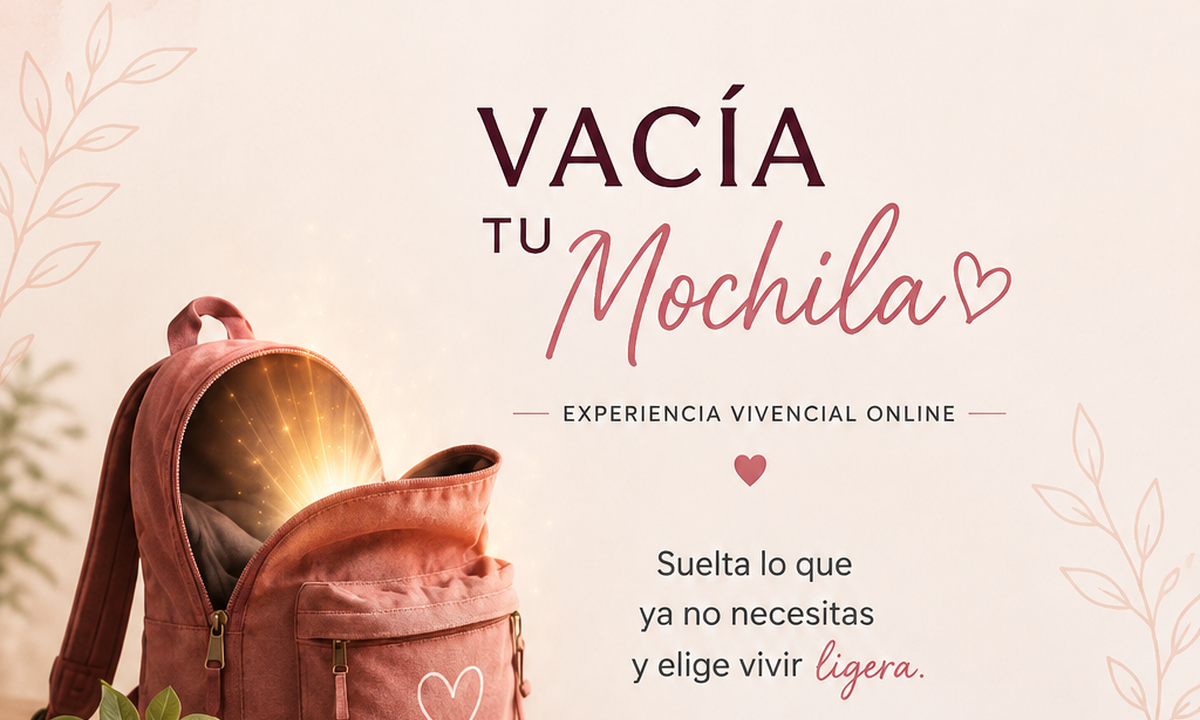
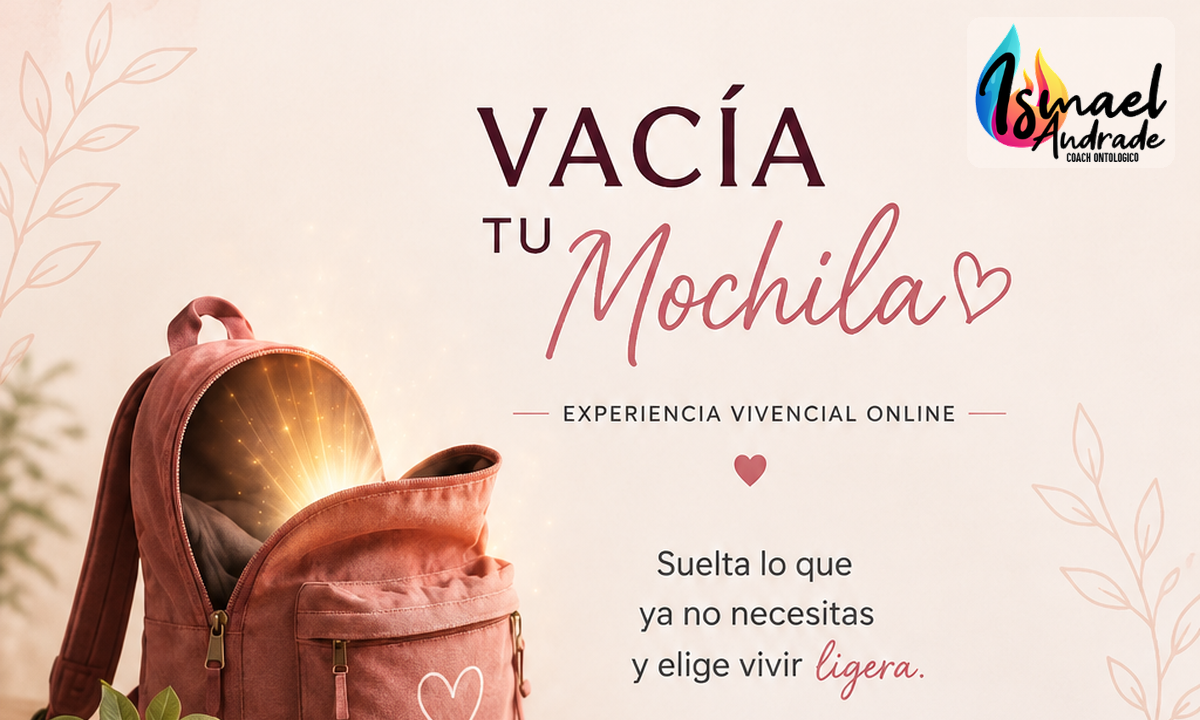
v1.7 - Corrige actualización de PWA e integra marca Ismael Andrade

Changed region(s): [[0.8017, 0.0306, 0.9867, 0.2444]]

diff --git a/index.html b/index.html
@@ -6,13 +6,13 @@
   <meta property="og:description" content="Experiencia guiada de reflexión y autoconocimiento con Ismael Andrade.">
   <meta property="og:type" content="website">
   <meta property="og:url" content="https://xentroplus.github.io/vmo/">
-  <meta property="og:image" content="https://xentroplus.github.io/vmo/social-preview-v1.2.jpg">
+  <meta property="og:image" content="https://xentroplus.github.io/vmo/social-preview-v1.7.jpg">
   <meta property="og:image:width" content="1200">
   <meta property="og:image:height" content="630">
   <meta name="twitter:card" content="summary_large_image">
   <meta name="twitter:title" content="Vacía tu Mochila | Mi Mochila Hoy">
   <meta name="twitter:description" content="Experiencia guiada de reflexión y autoconocimiento con Ismael Andrade.">
-  <meta name="twitter:image" content="https://xentroplus.github.io/vmo/social-preview-v1.2.jpg">
+  <meta name="twitter:image" content="https://xentroplus.github.io/vmo/social-preview-v1.7.jpg">
 
 <title>Vacía tu Mochila</title><link rel="manifest" href="manifest.webmanifest"><link rel="icon" href="icon-192.png">
 <style>
@@ -31,7 +31,7 @@
     .hero img{width:min(250px,74%);border-radius:22px;margin:0 auto 14px;display:block}h1{font-size:34px;line-height:1.05;margin:6px 0 8px}h2{font-size:27px;line-height:1.12;margin:0 0 14px}h3{font-size:18px;margin:0 0 8px}p{line-height:1.5}.lead{font-size:18px;color:var(--muted)}.privacy{background:#f0ebe7;border:1px dashed #cebcc4;border-radius:18px;padding:16px}.progress{height:8px;background:#eadde3;border-radius:999px;overflow:hidden;margin:10px 0 20px}.progress span{display:block;height:100%;background:linear-gradient(90deg,var(--accent),var(--accent2));width:0}.stepnote{font-size:13px;color:var(--muted);margin-bottom:5px}.btnrow{display:flex;gap:10px;flex-wrap:wrap;margin-top:22px}button{font:inherit;border:0;border-radius:14px;padding:13px 18px;min-height:46px;cursor:pointer}.primary{background:var(--accent);color:#fff;font-weight:700;flex:1}.secondary{background:var(--soft);color:var(--text);font-weight:650}.ghost{background:transparent;border:1px solid var(--line);color:var(--text)}button:disabled{opacity:.45;cursor:not-allowed}.field{margin:16px 0}label{display:block;font-weight:700;margin-bottom:8px}input[type=password],input[type=text],textarea{width:100%;border:1px solid #d8c8cf;border-radius:14px;padding:14px 15px;font:inherit;background:#fff;color:var(--text)}textarea{min-height:120px;resize:vertical}.areas{display:grid;gap:14px}.area{border:1px solid var(--line);background:#fff;border-radius:18px;padding:16px}.area-head{display:flex;justify-content:space-between;gap:12px;align-items:flex-start}.area small{display:block;color:var(--muted);margin-top:4px;line-height:1.4}.scale{display:grid;grid-template-columns:repeat(5,1fr);gap:8px;margin-top:14px}.scale button{padding:10px 0;border:1px solid var(--line);background:#fff;border-radius:12px}.scale button.sel{background:var(--accent);color:#fff;border-color:var(--accent)}.legend{display:flex;justify-content:space-between;font-size:12px;color:var(--muted);margin-top:12px;gap:12px}.choicegrid{display:grid;gap:10px}.choice{width:100%;text-align:left;background:#fff;border:1px solid var(--line);padding:14px 16px;border-radius:14px}.choice.sel{border-color:var(--accent);background:#f5eaf0}.selected-summary{border-left:4px solid var(--accent);background:#f8eef3;padding:12px 14px;border-radius:12px;margin:14px 0}.pause{background:linear-gradient(180deg,#f4ecef,#fffaf7);text-align:center;padding:30px 18px;border-radius:20px;border:1px solid var(--line)}.pause .big{font-size:48px}.radarwrap{display:flex;justify-content:center;margin:8px 0 18px}svg.radar{width:min(100%,520px);height:auto}.summary{display:grid;gap:12px}.summary-item{background:#fff;border:1px solid var(--line);border-radius:16px;padding:14px}.summary-item b{display:block;margin-bottom:5px}.notice{font-size:14px;padding:12px 14px;border-radius:12px;background:#fff5dd;border:1px solid #edd7a1}.error{color:#a33b4a;font-size:14px;margin-top:8px}.hidden{display:none!important}@media(max-width:520px){.card{padding:18px;border-radius:20px}h1{font-size:30px}h2{font-size:24px}.app{padding:12px 10px 30px}.btnrow{flex-direction:column-reverse}.btnrow button{width:100%}}@media print{body{background:#fff}.top,.progress,.btnrow,.no-print,.stepnote{display:none!important}.app{max-width:100%;padding:0}.card{box-shadow:none;border:none}.print-title{display:block!important}}
 </style>
 </head>
-<body><div class="app"><div class="top"><div class="brandmini"><img src="brand.png?v=1.6" alt="Vacía tu Mochila"><div><strong>Vacía tu Mochila</strong><div class="version">PWA v1.6</div></div></div><div class="version" id="statusMini">Guardado local</div></div><div class="stepnote" id="stepLabel"></div><div class="progress" id="progressWrap"><span id="progressBar"></span></div><main class="card" id="screen"></main></div>
+<body><div class="app"><div class="top"><div class="brandmini"><img src="brand.png?v=1.7" alt="Vacía tu Mochila"><div><strong>Vacía tu Mochila</strong><div class="version">PWA v1.7</div></div></div><div class="version" id="statusMini">Guardado local</div></div><div class="stepnote" id="stepLabel"></div><div class="progress" id="progressWrap"><span id="progressBar"></span></div><main class="card" id="screen"></main></div>
 <script>
 (()=>{
 const APP_KEY='vmo-state-v1',ACCESS_KEY='vmo-access-v1',PASS='vmo1';
@@ -53,7 +53,7 @@ function displayArea(){return state.area==='➕ Otra área'?(state.areaOther.tri
 function displayLoad(){return state.load==='➕ Otra'?(state.loadOther.trim()||'Otra'):state.load}
 function render(){progressUI();({login:renderLogin,cover:renderCover,privacy:renderPrivacy,areas:renderAreas,map:renderMap,chooseArea:renderChooseArea,chooseLoad:renderChooseLoad,q1:()=>renderTextQuestion('💭 ¿En qué situación sientes con mayor frecuencia esta carga?','q1','chooseLoad','q2'),q2:()=>renderTextQuestion('💭 Cuando esto ocurre, ¿qué sueles decirte a ti misma?','q2','q1','pause','Ej.: “Tengo que hacerlo”, “No puedo fallar”, “Qué van a pensar de mí”…'),pause:renderPause,discover:()=>renderTextQuestion('✨ ¿Qué descubriste o comprendiste sobre aquello que estabas cargando?','discover','pause','different'),different:()=>renderTextQuestion('🌱 ¿Qué te gustaría comenzar a hacer diferente?','different','discover','release'),release:()=>renderTextQuestion('🎒 ¿Qué quieres dejar de cargar de la misma manera?','release','different','action'),action:renderAction,summary:renderSummary}[state.step]||renderCover)()}
 function renderLogin(){screen.innerHTML=`<div class="hero">
-      <img src="brand.png?v=1.6" alt="Vacía tu Mochila">
+      <img src="brand.png?v=1.7" alt="Vacía tu Mochila">
       <h2>🔐 Acceso a la experiencia</h2>
       <p class="muted">Ingresa la clave compartida por Ismael.</p>
       <div class="field"><input id="pass" type="password" autocomplete="off" placeholder="Clave de acceso"></div>
@@ -61,7 +61,7 @@ function renderLogin(){screen.innerHTML=`<div class="hero">
       <div class="btnrow"><button id="loginBtn" class="primary">INGRESAR</button></div>
       </div></div>`;const go=()=>{if(document.getElementById('pass').value.trim()===PASS){localStorage.setItem(ACCESS_KEY,'1');state.step='cover';save();render()}else document.getElementById('err').textContent='⚠ La clave ingresada no es correcta. Inténtalo nuevamente.'};document.getElementById('loginBtn').addEventListener('click',go);document.getElementById('pass').addEventListener('keydown',e=>{if(e.key==='Enter')go()})}
 function renderCover(){screen.innerHTML=`<div class="hero">
-      <img src="brand.png?v=1.6" alt="Vacía tu Mochila">
+      <img src="brand.png?v=1.7" alt="Vacía tu Mochila">
       <h1>🎒 VACÍA TU MOCHILA</h1>
       <h3>Mi Mochila Hoy</h3>
       <p class="lead">Una herramienta personal para detenerte, mirar lo que estás cargando y elegir dónde quieres comenzar.</p>
@@ -78,6 +78,6 @@ function renderTextQuestion(q,key,back,next,hint=''){screen.innerHTML=`<h2>${q}<
 function renderPause(){screen.innerHTML=`<div class="pause"><div class="big">🧘</div><h2>Ahora deja tu teléfono a un lado</h2><p>Has identificado algo que quieres mirar.</p><p>🎧 Ahora déjate acompañar por mi voz.</p><p class="muted">No necesitas hacer nada más en la aplicación hasta que te indique que volvamos.</p><p><b>Deja tu teléfono a un lado y ponte cómoda. 💛</b></p></div>${nav('q2','discover','YA ESTOY DE VUELTA →')}`;bindNav('q2','discover')}
 function renderAction(){screen.innerHTML=`<h2>👣 Mi primer paso</h2><p>No necesitas cambiarlo todo hoy.</p><p><b>¿Qué pequeña acción puedes realizar en las próximas 48 horas que dependa únicamente de ti?</b></p><div class="field"><textarea id="answer" placeholder="Opcional">${esc(state.action)}</textarea></div><div id="promptBox" class="notice hidden">💛 ¿Quieres regalarte unos segundos más para pensar en una pequeña acción?<div class="btnrow"><button id="writeBtn" class="secondary">QUIERO ESCRIBIRLA</button><button id="continueBtn" class="primary">PREFIERO CONTINUAR</button></div></div><div class="btnrow"><button id="backBtn" class="secondary">← ANTERIOR</button><button id="finishBtn" class="primary">FINALIZAR ✨</button></div>`;document.getElementById('answer').addEventListener('input',e=>{state.action=e.target.value;save()});document.getElementById('backBtn').addEventListener('click',()=>setStep('release'));document.getElementById('finishBtn').addEventListener('click',()=>{if(state.action.trim())setStep('summary');else document.getElementById('promptBox').classList.remove('hidden')});document.getElementById('writeBtn').addEventListener('click',()=>{document.getElementById('promptBox').classList.add('hidden');document.getElementById('answer').focus()});document.getElementById('continueBtn').addEventListener('click',()=>setStep('summary'))}
 function renderSummary(){const items=[['Hoy elegí mirar',displayArea()],['Reconocí que estaba cargando',displayLoad()],['Descubrí',state.discover],['Quiero comenzar a soltar',state.release],['🌱 Mi primer paso será',state.action]].filter(x=>x[1]&&String(x[1]).trim());screen.innerHTML=`<div class="print-title hidden"><h1>Vacía tu Mochila</h1><p>Mi reflexión personal</p></div><h2>🎒 MI PRIMER PASO</h2><div class="summary">${items.map(([k,v])=>`<div class="summary-item"><b>${k}</b><div>${esc(v)}</div></div>`).join('')}</div><div class="pause" style="margin-top:18px"><p><b>💛 No necesitas vaciar toda tu mochila hoy.</b></p><p>✨ Hoy elegiste comenzar por algo.</p></div><div class="btnrow no-print"><button id="restartBtn" class="secondary">🔄 COMENZAR DE NUEVO</button><button id="printBtn" class="primary">📄 GUARDAR MI REFLEXIÓN</button></div>`;document.getElementById('printBtn').addEventListener('click',()=>window.print());document.getElementById('restartBtn').addEventListener('click',()=>{if(confirm('¿Deseas borrar tus respuestas y comenzar de nuevo?')){const a=localStorage.getItem(ACCESS_KEY);localStorage.removeItem(APP_KEY);if(a)localStorage.setItem(ACCESS_KEY,'1');state=defaultState();state.step='cover';save();render()}})}
-if('serviceWorker' in navigator)window.addEventListener('load',()=>navigator.serviceWorker.register('./sw.js?v=1.6',{updateViaCache:'none'}).then(r=>r.update()).catch(()=>{}));render();
+if('serviceWorker' in navigator)window.addEventListener('load',()=>navigator.serviceWorker.register('./sw.js?v=1.7',{updateViaCache:'none'}).then(r=>r.update()).catch(()=>{}));render();
 })();
 </script></body></html>

diff --git a/sw.js b/sw.js
@@ -1,57 +1,56 @@
-const CACHE = 'vmo-pwa-v1.6';
-
-const STATIC_ASSETS = [
+const CACHE = 'vmo-pwa-v1.7';
+const STATIC = [
   './manifest.webmanifest',
   './icon-192.png',
   './icon-512.png',
-  './brand.png',
-  './coach-logo.png',
-  './social-preview-v1.2.jpg'
+  './brand.png?v=1.7',
+  './social-preview-v1.7.jpg'
 ];
 
 self.addEventListener('install', event => {
-  event.waitUntil(
-    caches.open(CACHE).then(cache => cache.addAll(STATIC_ASSETS))
-  );
+  event.waitUntil(caches.open(CACHE).then(c => c.addAll(STATIC)));
   self.skipWaiting();
 });
 
 self.addEventListener('activate', event => {
   event.waitUntil(
-    caches.keys().then(keys =>
-      Promise.all(keys.filter(key => key !== CACHE).map(key => caches.delete(key)))
-    ).then(() => self.clients.claim())
+    caches.keys()
+      .then(keys => Promise.all(keys.filter(k => k !== CACHE).map(k => caches.delete(k))))
+      .then(() => self.clients.claim())
   );
 });
 
-// Navegación / HTML: primero Internet, caché solo como respaldo.
-// Así las nuevas versiones se reflejan con el mismo enlace.
-self.addEventListener('fetch', event => {
-  const request = event.request;
+self.addEventListener('message', event => {
+  if (event.data === 'SKIP_WAITING') self.skipWaiting();
+});
 
-  if (request.mode === 'navigate' || request.destination === 'document') {
+self.addEventListener('fetch', event => {
+  const req = event.request;
+
+  // HTML/navegación: siempre intentar red primero.
+  if (req.mode === 'navigate' || req.destination === 'document') {
     event.respondWith(
-      fetch(request, { cache: 'no-store' })
-        .then(response => {
-          const copy = response.clone();
-          caches.open(CACHE).then(cache => cache.put('./index.html', copy));
-          return response;
+      fetch(req, {cache:'no-store'})
+        .then(res => {
+          const copy = res.clone();
+          caches.open(CACHE).then(c => c.put('./index.html', copy));
+          return res;
         })
         .catch(() => caches.match('./index.html'))
     );
     return;
   }
 
-  // Recursos: intentar red primero, luego caché.
+  // Recursos: red primero, caché de respaldo.
   event.respondWith(
-    fetch(request)
-      .then(response => {
-        if (request.method === 'GET' && response.ok) {
-          const copy = response.clone();
-          caches.open(CACHE).then(cache => cache.put(request, copy));
+    fetch(req, {cache:'no-cache'})
+      .then(res => {
+        if (req.method === 'GET' && res.ok) {
+          const copy = res.clone();
+          caches.open(CACHE).then(c => c.put(req, copy));
         }
-        return response;
+        return res;
       })
-      .catch(() => caches.match(request))
+      .catch(() => caches.match(req))
   );
 });

diff --git a/actualizar.html b/actualizar.html
@@ -1,0 +1,39 @@
+<!doctype html>
+<html lang="es">
+<head>
+<meta charset="utf-8">
+<meta name="viewport" content="width=device-width, initial-scale=1">
+<title>Actualizando Vacía tu Mochila</title>
+<style>
+body{font-family:system-ui,-apple-system,Segoe UI,Arial;background:#fbf4ef;color:#4a2b39;
+display:grid;place-items:center;min-height:90vh;margin:0;text-align:center;padding:24px}
+.box{max-width:480px;background:white;border:1px solid #ead8df;border-radius:22px;padding:28px}
+h1{font-size:25px}p{line-height:1.5;color:#755d68}
+</style>
+</head>
+<body>
+<div class="box">
+<h1>🎒 Actualizando Vacía tu Mochila</h1>
+<p>Estamos limpiando la versión anterior. En unos segundos abrirá automáticamente la versión más reciente.</p>
+<p id="msg">Actualizando…</p>
+</div>
+<script>
+(async()=>{
+  try{
+    if('serviceWorker' in navigator){
+      const regs=await navigator.serviceWorker.getRegistrations();
+      await Promise.all(regs.map(r=>r.unregister()));
+    }
+    if('caches' in window){
+      const keys=await caches.keys();
+      await Promise.all(keys.map(k=>caches.delete(k)));
+    }
+    document.getElementById('msg').textContent='✅ Listo. Abriendo v1.7…';
+  }catch(e){
+    document.getElementById('msg').textContent='Continuando con la actualización…';
+  }
+  setTimeout(()=>location.replace('./?v=1.7'),900);
+})();
+</script>
+</body>
+</html>
